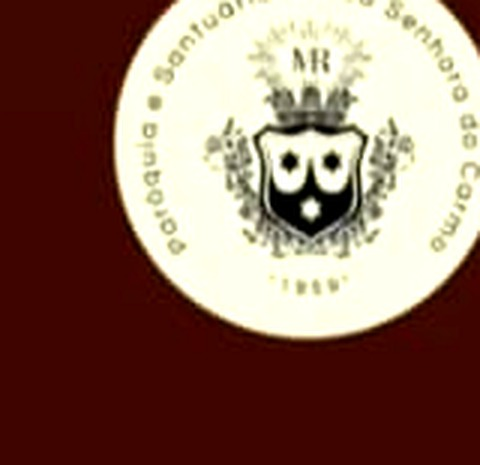
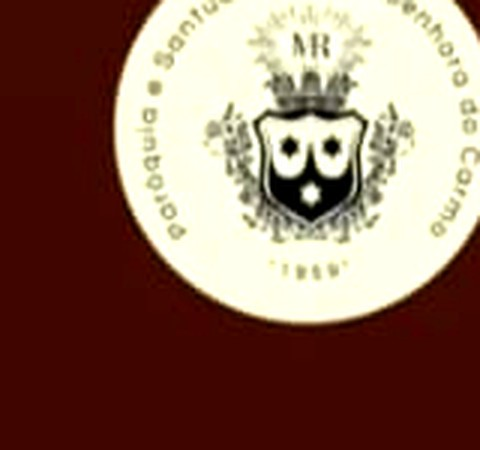
Refina apresentação do brasão e remove selo da seção principal
A foto fonte do selo tem qualidade muito limitada (área pequena,
texto fino), tornando ele ilegível mesmo após upscale. Em vez de
forçar uma exibição comprometida ao lado do brasão grande,
removo o selo da seção "Nossa Conferência" e deixo apenas o
brasão como protagonista — com moldura dourada gradiente e
caption "Christum Annuntiare" centrada abaixo.

O selo continua presente apenas no footer, em tamanho pequeno
onde a baixa qualidade não compromete.

Changed region(s): [[0.2188, 0.0, 1.0, 0.7467]]

diff --git a/app/index.html b/app/index.html
@@ -543,36 +543,53 @@
       display: flex;
       flex-direction: column;
       align-items: center;
-      gap: 20px;
+      gap: 18px;
     }
 
     .conference-shield {
       position: relative;
       width: 100%;
-      max-width: 320px;
+      max-width: 340px;
       border-radius: var(--radius);
       overflow: hidden;
+      padding: 4px;
+      background: linear-gradient(135deg, var(--gold) 0%, var(--gold-deep) 100%);
       box-shadow:
-        0 0 0 3px var(--gold),
-        0 0 0 6px var(--wine-deep),
-        0 20px 50px rgba(0,0,0,0.4);
+        0 0 0 1px var(--gold-deep),
+        0 24px 56px rgba(0,0,0,0.45);
     }
-    .conference-shield img { width: 100%; display: block; }
-
-    .conference-seal {
-      width: 90px;
-      height: 90px;
-      border-radius: 50%;
-      overflow: hidden;
-      border: 2px solid var(--gold);
-      box-shadow: 0 8px 20px rgba(0,0,0,0.4);
-      background: var(--cream-light);
+    .conference-shield::after {
+      content: '';
+      position: absolute;
+      inset: 8px;
+      border: 1px solid rgba(74, 24, 24, 0.5);
+      border-radius: calc(var(--radius) - 6px);
+      pointer-events: none;
+      z-index: 2;
     }
-    .conference-seal img {
+    .conference-shield img {
       width: 100%;
-      height: 100%;
-      object-fit: cover;
-      object-position: center;
+      display: block;
+      border-radius: calc(var(--radius) - 4px);
+    }
+
+    .conference-shield-caption {
+      text-align: center;
+      font-size: 0.82rem;
+      letter-spacing: 0.1em;
+      text-transform: uppercase;
+      color: var(--gold);
+      font-weight: 500;
+      line-height: 1.5;
+      margin: 0;
+    }
+    .conference-shield-caption em {
+      font-family: 'Cormorant Garamond', serif;
+      text-transform: none;
+      font-style: italic;
+      font-size: 1rem;
+      letter-spacing: 0.02em;
+      color: var(--gold-bright);
     }
 
     .conference-text h3 {
@@ -1278,13 +1295,10 @@
         <div class="conference-emblem-stack reveal">
           <div class="conference-shield">
             <img src="assets/brasao-paroquia.jpg"
-                 alt="Brasão da Paróquia Santuário Nossa Senhora do Carmo"
+                 alt="Brasão da Paróquia Santuário Nossa Senhora do Carmo — Christum Annuntiare"
                  loading="lazy" decoding="async">
           </div>
-          <div class="conference-seal">
-            <img src="assets/selo-paroquia.jpg" alt="Selo oficial da Paróquia"
-                 loading="lazy" decoding="async">
-          </div>
+          <p class="conference-shield-caption">Brasão da Paróquia<br><em>Christum Annuntiare</em></p>
         </div>
 
         <div class="conference-text reveal">
